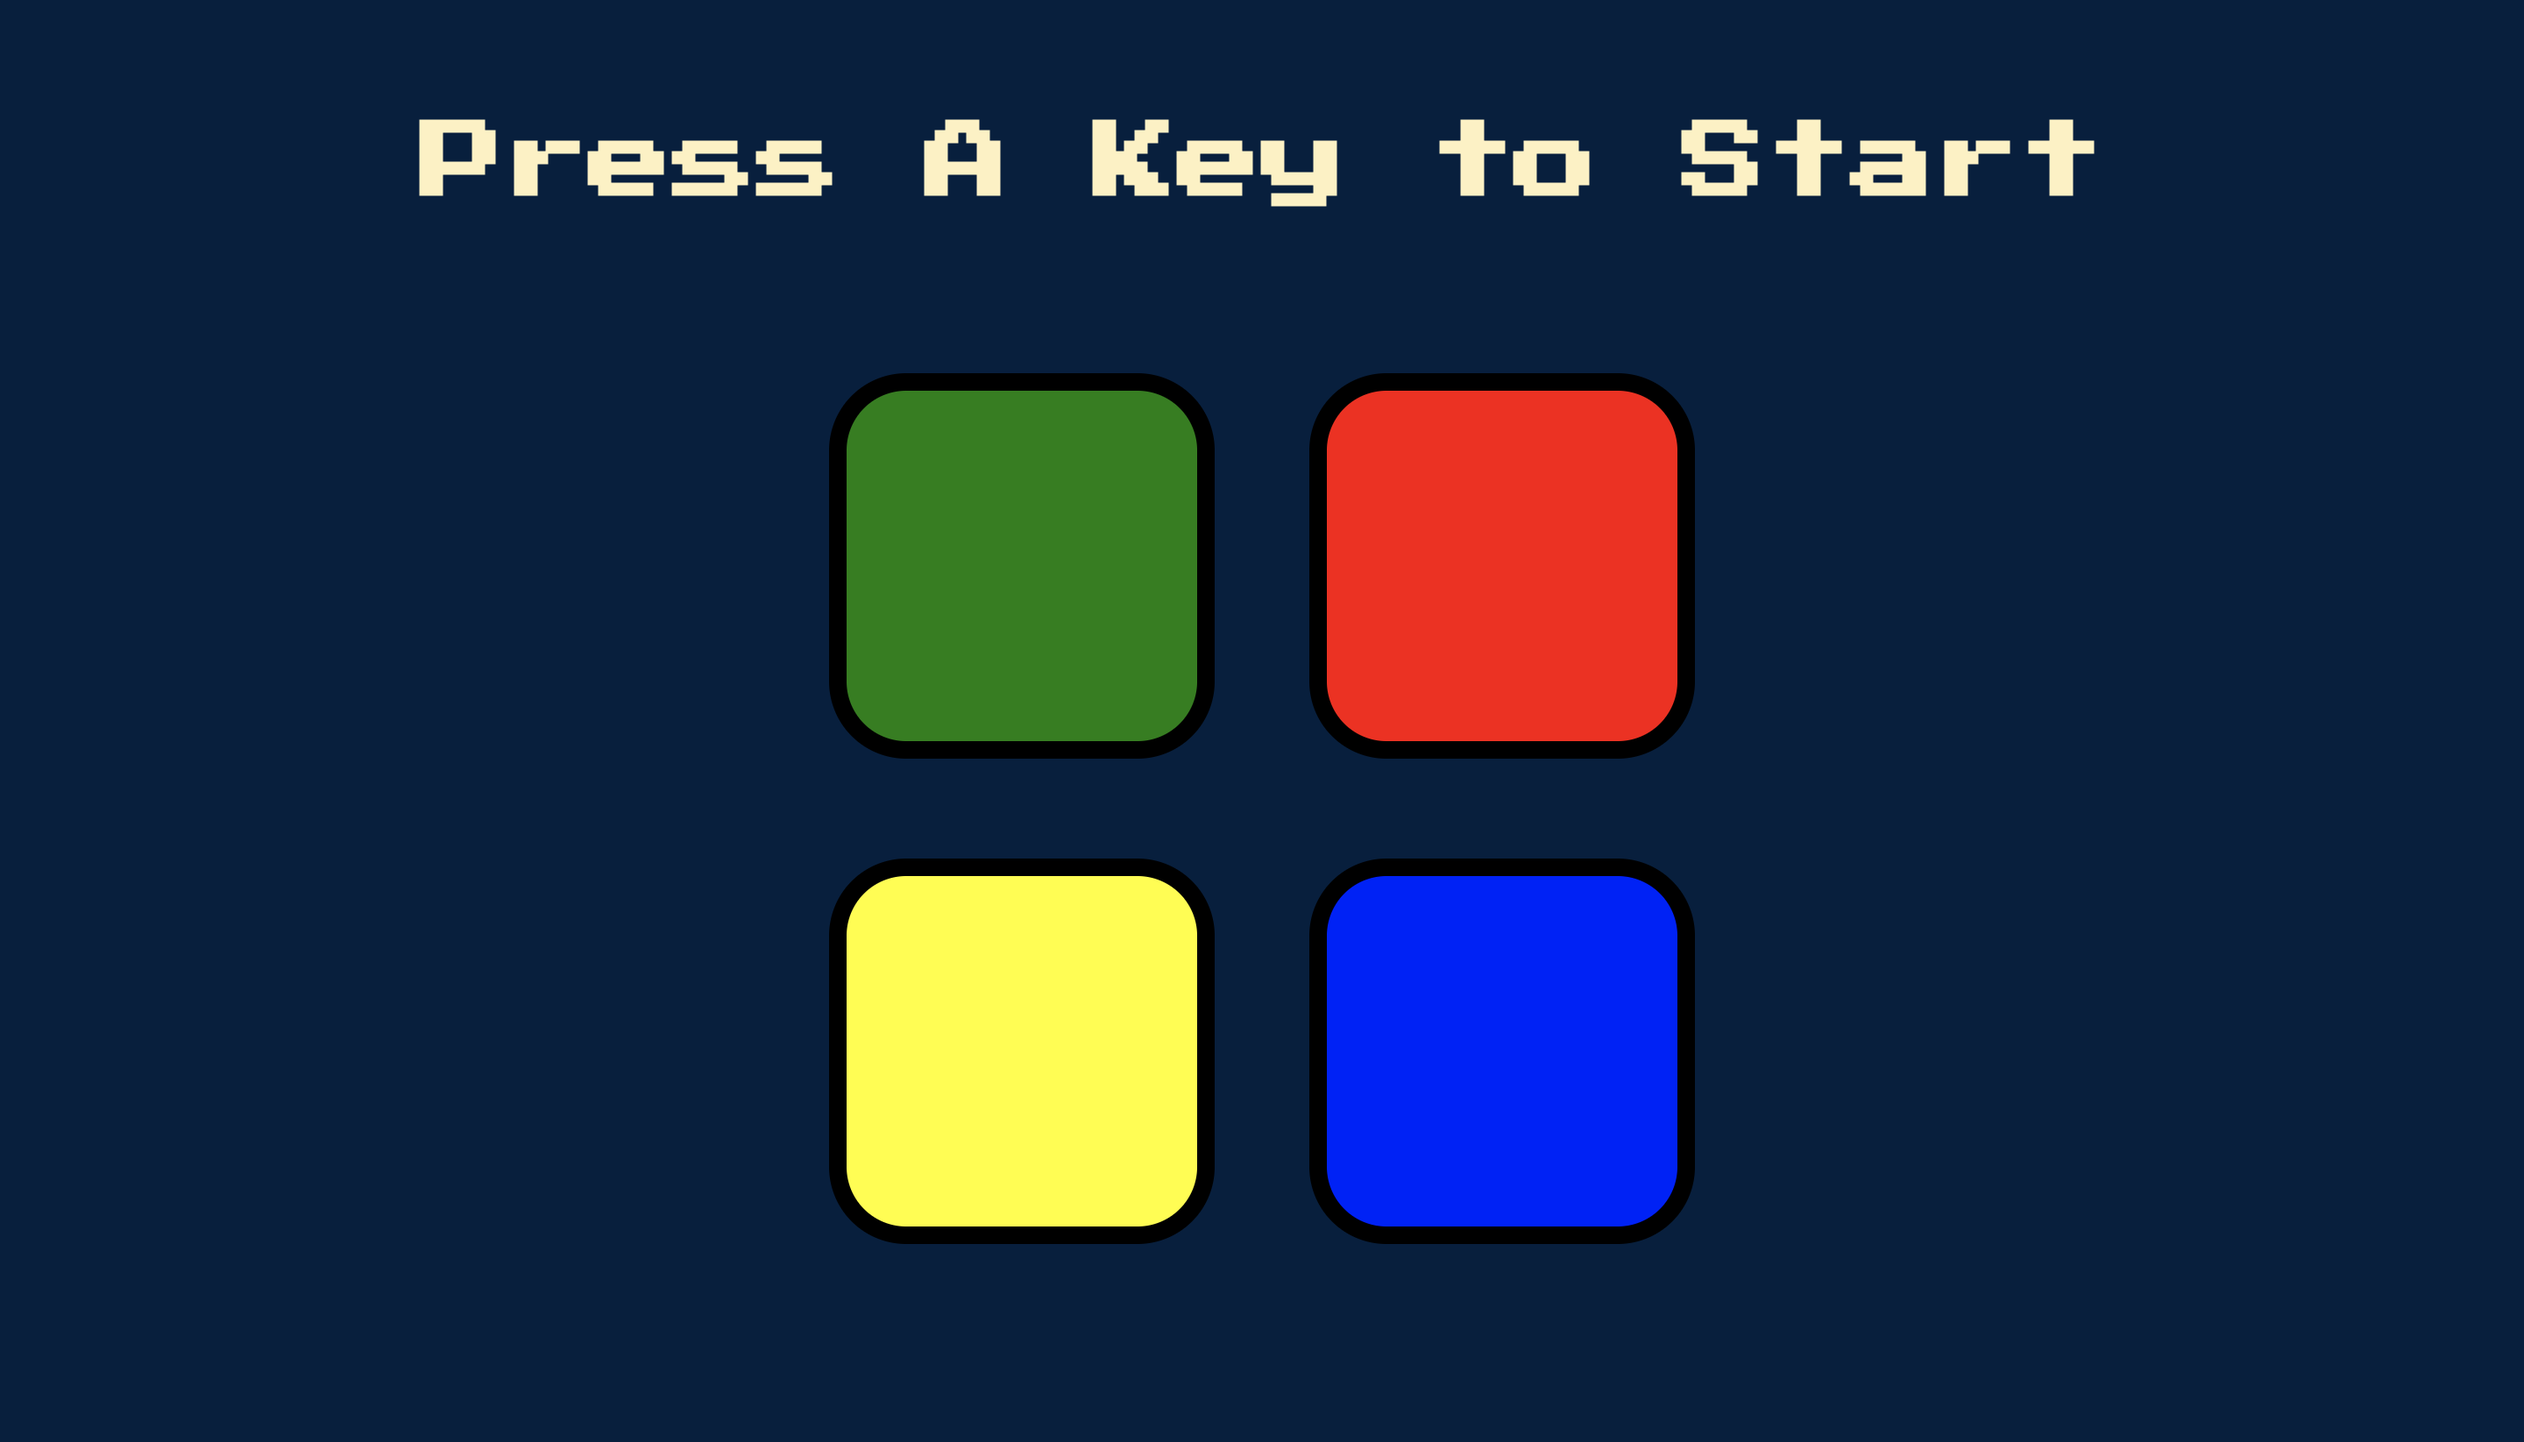
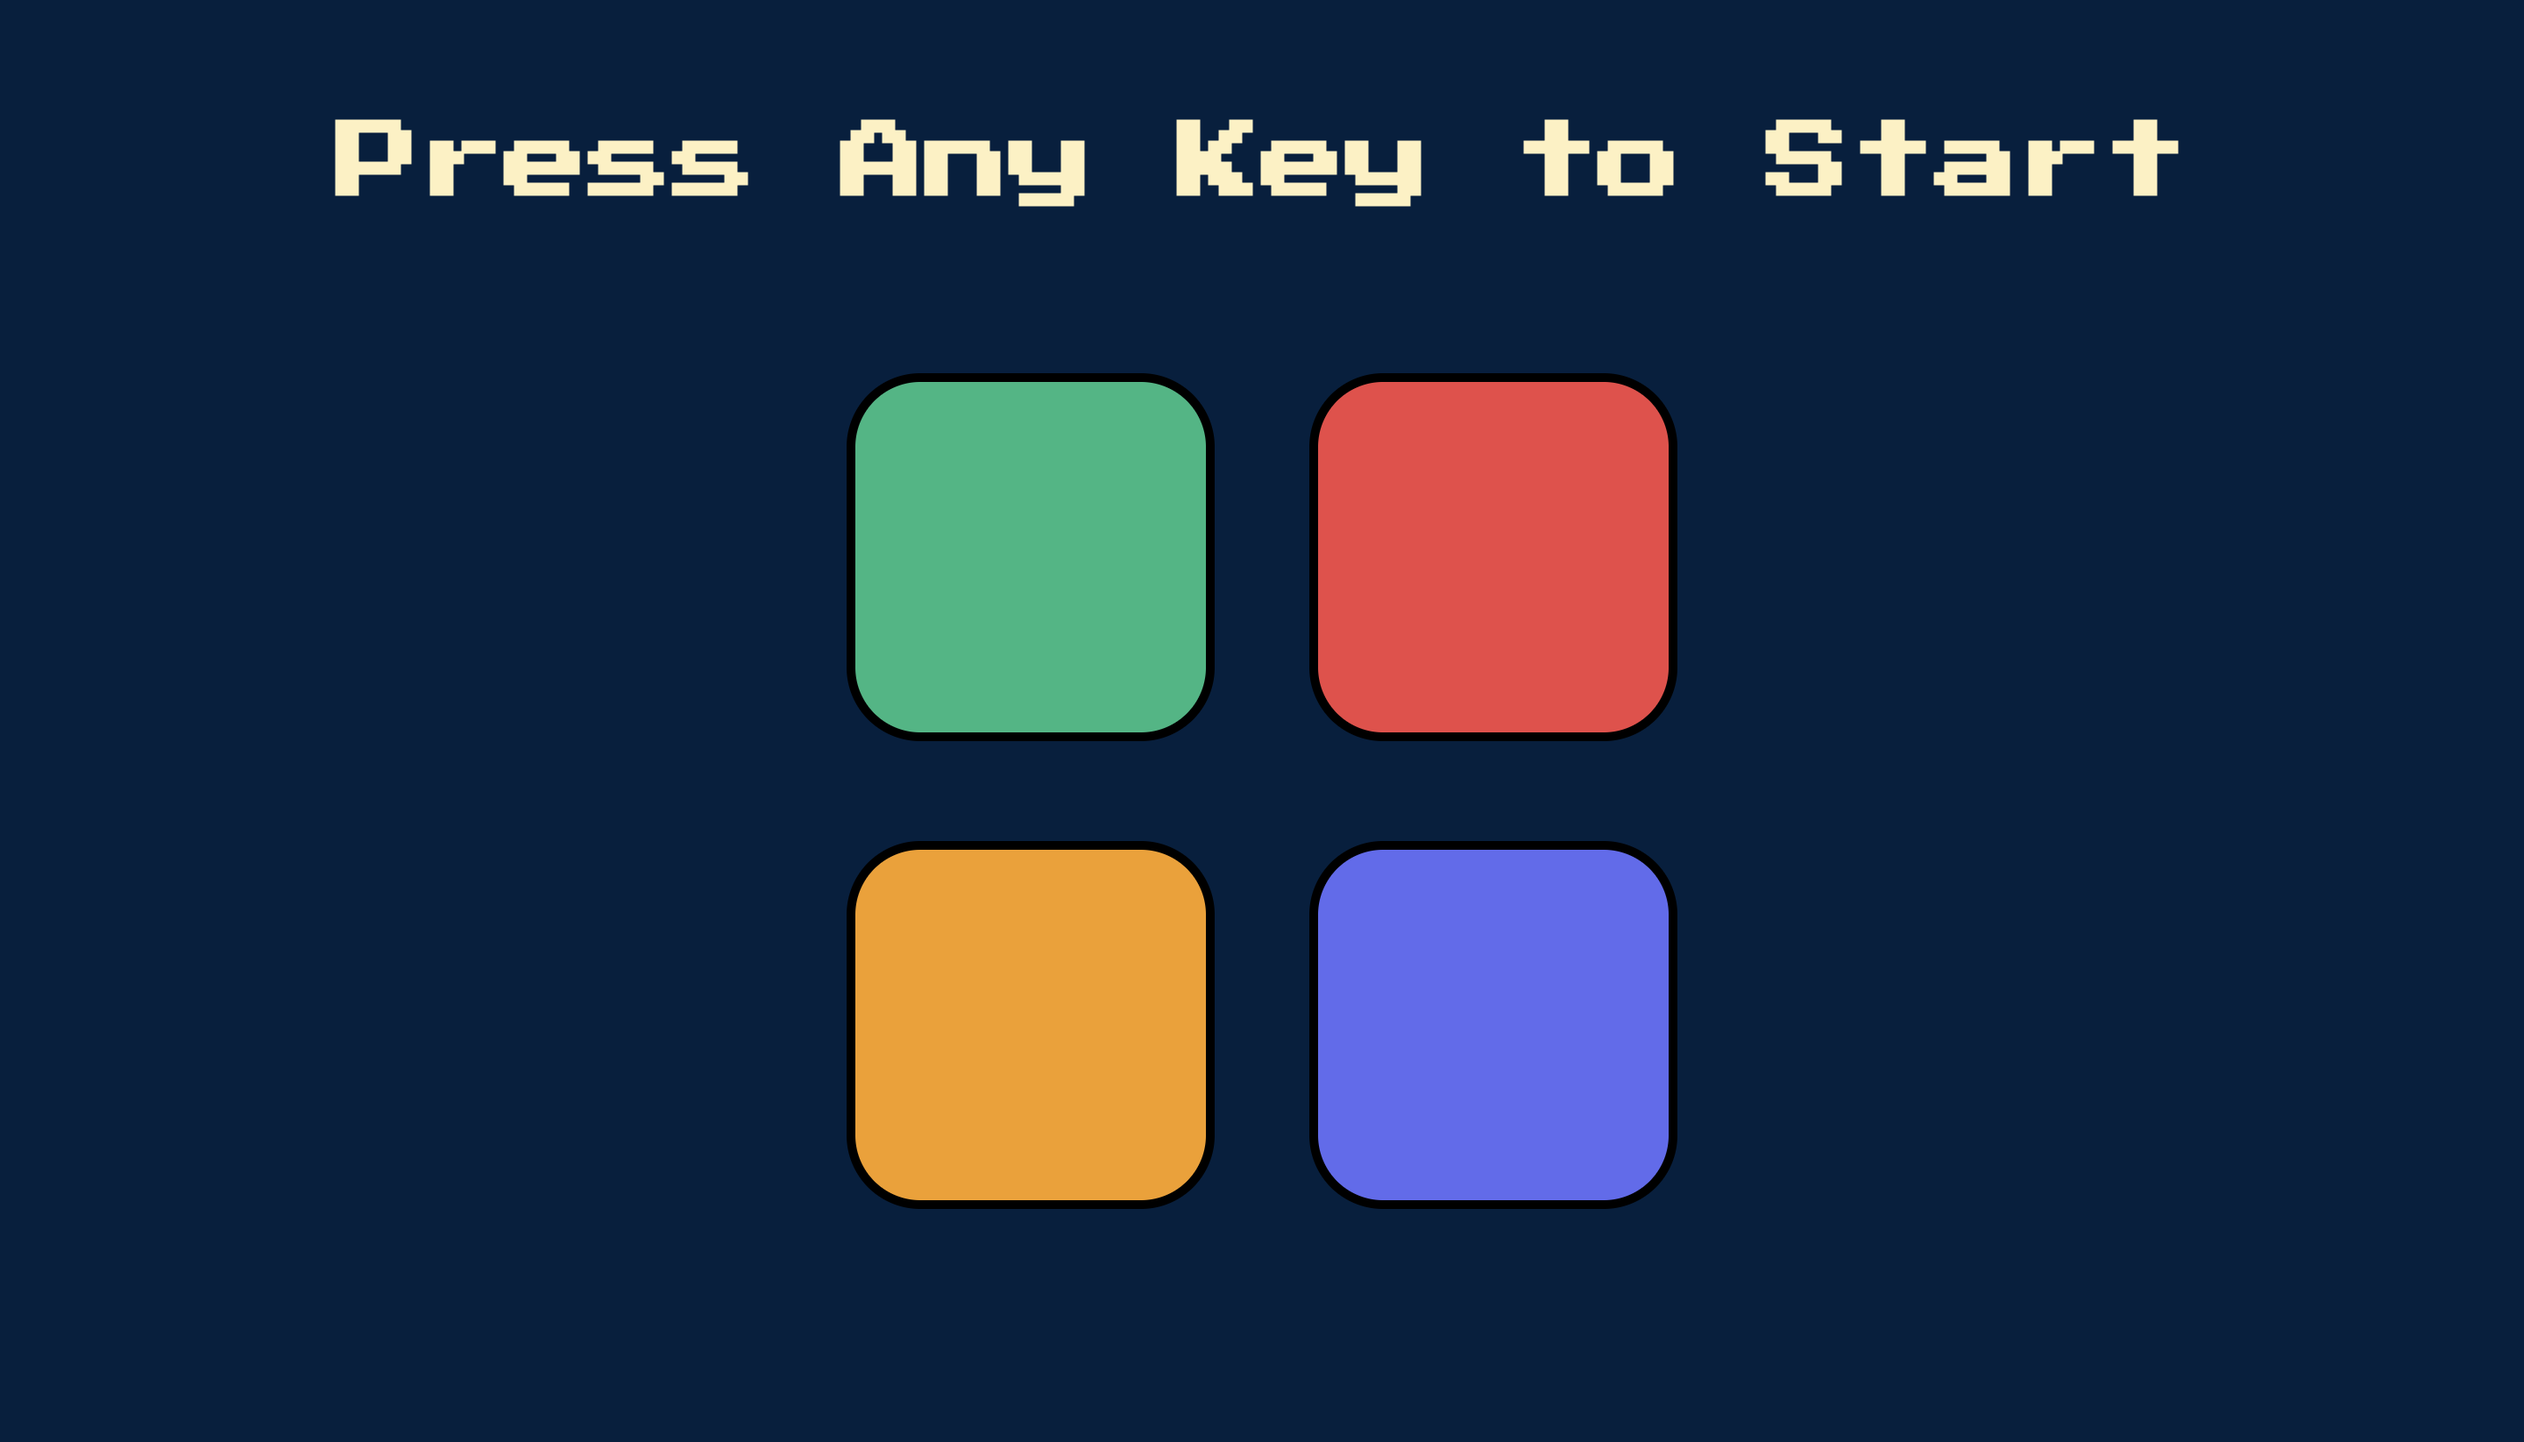
Update readme.md
fix color a little

Changed region(s): [[0.3125, 0.5577, 0.6875, 0.8676], [0.3125, 0.2479, 0.6875, 0.5267], [0.125, 0.062, 0.875, 0.1549]]

diff --git a/styles.css b/styles.css
@@ -6,7 +6,7 @@ body {
 #level-title {
   font-family: 'Press Start 2P', cursive;
   font-size: 3rem;
-  margin:  5%;
+  margin: 5%;
   color: #FEF2BF;
 }
 
@@ -22,7 +22,7 @@ body {
   display: inline-block;
   height: 200px;
   width: 200px;
-  border: 10px solid black;
+  border: 5px solid black;
   border-radius: 20%;
 }
 
@@ -32,19 +32,19 @@ body {
 }
 
 .red {
-  background-color: red;
+  background-color: #ef4444;
 }
 
 .green {
-  background-color: green;
+  background-color: #13b981;
 }
 
 .blue {
-  background-color: blue;
+  background-color: #6467f1;
 }
 
 .yellow {
-  background-color: yellow;
+  background-color: #f59e0b;
 }
 
 .pressed {

diff --git a/index.html b/index.html
@@ -9,7 +9,7 @@
 </head>
 
 <body>
-  <h1 id="level-title">Press A Key to Start</h1>
+  <h1 id="level-title">Press Any Key to Start</h1>
   <div class="container">
     <div lass="row">
 

diff --git a/README.md b/README.md
@@ -1,6 +1,7 @@
 # Simon Game
 
 A practice project of JavaScript which is one of outcomes from web developer bootcamp course.
+User need to memorize and follow the random generated pattern. If pattern is wrong, game is over.
 
 ## Screenshot
 
